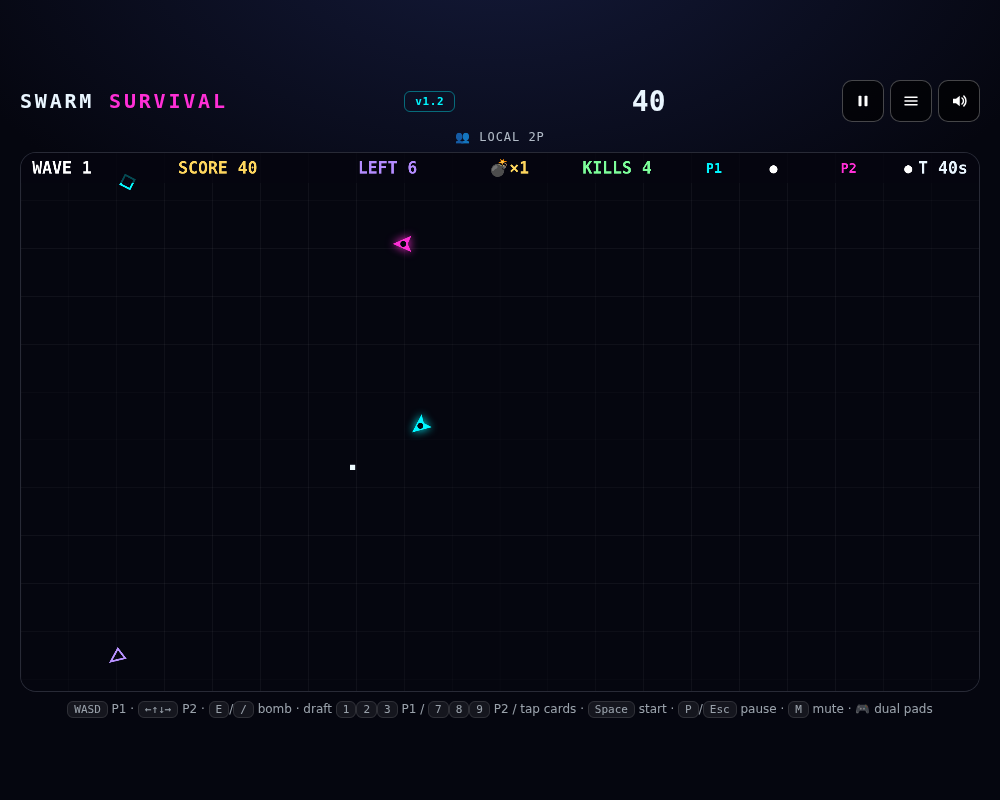
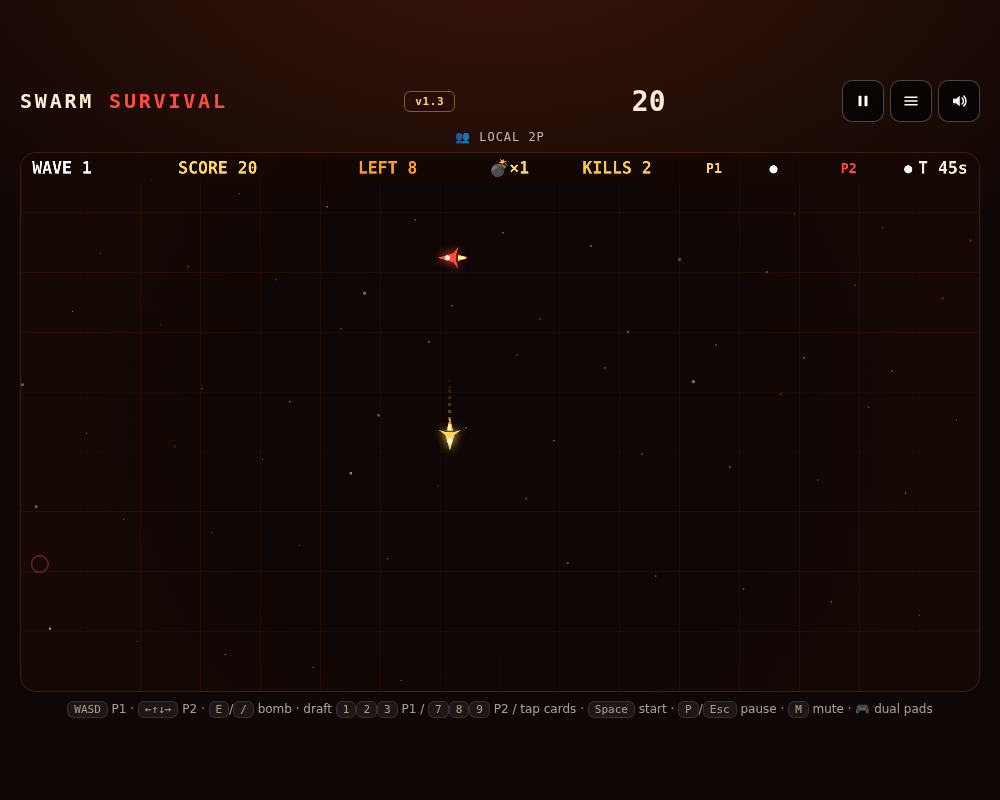
Swarm v1.3 solar-storm reskin: fighters, spark/asteroid/comet foes, tracers, ember arena

diff --git a/local-browser-games/hybrid1-2/swarm/index.html b/local-browser-games/hybrid1-2/swarm/index.html
@@ -3,7 +3,7 @@
 <head>
 <meta charset="utf-8">
 <meta name="viewport" content="width=device-width,initial-scale=1,maximum-scale=1,user-scalable=no,viewport-fit=cover">
-<meta name="theme-color" content="#05060f">
+<meta name="theme-color" content="#0f0705">
 <link rel="manifest" href="manifest.webmanifest">
 <link rel="icon" type="image/svg+xml" href="icon.svg">
 <meta name="mobile-web-app-capable" content="yes">
@@ -11,20 +11,20 @@
 <meta name="apple-mobile-web-app-status-bar-style" content="black-translucent">
 <title>Swarm Survival — Co-op Arena</title>
 <style>
-:root{--c1:#00f6ff;--c2:#ff2fd6;--bg:#05060f;--mono:ui-monospace,"Cascadia Mono","SF Mono",Menlo,Consolas,"Liberation Mono",monospace}
+:root{--c1:#ffd75e;--c2:#ff4d3d;--bg:#0f0705;--mono:ui-monospace,"Cascadia Mono","SF Mono",Menlo,Consolas,"Liberation Mono",monospace}
 *{box-sizing:border-box;-webkit-tap-highlight-color:transparent;user-select:none}
-body{margin:0;background:radial-gradient(1000px 600px at 50% -10%,#141a3a 0%,var(--bg) 60%) fixed,var(--bg);color:#eaf6ff;font-family:ui-sans-serif,system-ui,Segoe UI,Roboto,Arial;overflow:hidden}
+body{margin:0;background:radial-gradient(1200px 700px at 50% -10%,#3a1408 0%,var(--bg) 60%) fixed,var(--bg);color:#ffedd6;font-family:ui-sans-serif,system-ui,Segoe UI,Roboto,Arial;overflow:hidden}
 #wrap{height:100vh;height:100dvh;display:flex;flex-direction:column;align-items:center;justify-content:center;gap:8px;padding:10px}
 #top{width:min(1600px,96vw,calc((100dvh - 190px)*16/9));display:flex;justify-content:space-between;align-items:center}
 .logo{font-family:var(--mono);font-weight:900;letter-spacing:.14em;font-size:clamp(14px,2.6vw,20px)}
 .logo span{color:var(--c2)}
-#verBadge{font-family:var(--mono);font-size:11px;font-weight:800;letter-spacing:.06em;color:var(--c1);border:1px solid #00f6ff66;border-radius:6px;padding:3px 10px;white-space:nowrap}
+#verBadge{font-family:var(--mono);font-size:11px;font-weight:800;letter-spacing:.06em;color:var(--c1);border:1px solid #ffd75e66;border-radius:6px;padding:3px 10px;white-space:nowrap}
 #score{font-family:var(--mono);font-weight:900;font-variant-numeric:tabular-nums;font-size:clamp(18px,3.4vw,28px)}
 #mode{font-family:var(--mono);font-size:12px;letter-spacing:.08em;text-transform:uppercase;opacity:.75}
-#stage{position:relative;width:min(1600px,96vw,calc((100dvh - 190px)*16/9));aspect-ratio:16/9;border-radius:16px;overflow:hidden;border:1px solid #ffffff22;background:#070a18}
+#stage{position:relative;width:min(1600px,96vw,calc((100dvh - 190px)*16/9));aspect-ratio:16/9;border-radius:16px;overflow:hidden;border:1px solid #ff7a1a33;background:#140806}
 canvas{width:100%;height:100%;display:block;touch-action:none}
 #overlay{position:fixed;inset:0;z-index:50;display:flex;align-items:center;justify-content:center;background:rgba(5,6,15,.82);backdrop-filter:blur(6px);padding:14px}
-.card{width:min(560px,94%);background:#0b1026;border:1px solid #ffffff22;border-radius:16px;padding:20px;text-align:center;max-height:94%;overflow:auto}
+.card{width:min(560px,94%);background:#1c0d06;border:1px solid #ff7a1a44;border-radius:16px;padding:20px;text-align:center;max-height:94%;overflow:auto}
 #mbtns{display:flex;gap:6px;align-items:center}
 #pveil{position:fixed;inset:0;z-index:60;display:none;align-items:center;justify-content:center;background:rgba(5,6,15,.82);backdrop-filter:blur(6px);padding:14px}
 #pveil .card{width:min(340px,92%)}
@@ -35,7 +35,7 @@ canvas{width:100%;height:100%;display:block;touch-action:none}
 #stub{display:flex;align-items:center;gap:10px;margin:14px 0 2px;color:var(--c1);font-family:var(--mono);font-size:11px;letter-spacing:.2em}
 #stub::before,#stub::after{content:"";flex:1;border-top:2px dashed #ffffff33}
 button{cursor:pointer;border:0;border-radius:10px;padding:12px 14px;font-family:var(--mono);font-weight:800;font-size:13px;letter-spacing:.05em;text-transform:uppercase;color:#04121a;background:var(--c1);box-shadow:none;flex:1}
-button.pink{background:var(--c2);color:#1a0412}
+button.pink{background:var(--c2);color:#ffe9d6}
 button.ghost{background:#ffffff14;color:#fff;box-shadow:none;border:1px solid #ffffff2a;flex:1}
 button.sel{outline:2px solid #fff}
 #hint{font-size:12px;opacity:.65;text-align:center;line-height:1.6;max-width:96vw}
@@ -44,7 +44,7 @@ kbd{font-family:var(--mono);background:#ffffff1a;border:1px solid #ffffff2e;bord
 </head>
 <body>
 <div id="wrap">
-  <div id="top"><div class="logo">SWARM <span>SURVIVAL</span></div><div id="verBadge">v1.2</div><div id="score">0</div><div id="mbtns"><button id="pauseBtn" title="Pause"><svg viewBox="0 0 24 24" width="18" height="18" fill="currentColor" aria-hidden="true"><rect x="6" y="5" width="4" height="14" rx="1"/><rect x="14" y="5" width="4" height="14" rx="1"/></svg></button><button id="menuBtn" title="Menu"><svg viewBox="0 0 24 24" width="18" height="18" fill="none" stroke="currentColor" stroke-width="2" stroke-linecap="round" aria-hidden="true"><path d="M4 7h16M4 12h16M4 17h16"/></svg></button><button id="muteBtn" title="Mute"><svg viewBox="0 0 24 24" width="18" height="18" aria-hidden="true"><path d="M4 9v6h4l5 4V5L8 9H4z" fill="currentColor"/><path d="M16 8a5 5 0 010 8M18.5 5.5a9 9 0 010 13" stroke="currentColor" stroke-width="2" fill="none" stroke-linecap="round"/></svg></button></div></div>
+  <div id="top"><div class="logo">SWARM <span>SURVIVAL</span></div><div id="verBadge">v1.3</div><div id="score">0</div><div id="mbtns"><button id="pauseBtn" title="Pause"><svg viewBox="0 0 24 24" width="18" height="18" fill="currentColor" aria-hidden="true"><rect x="6" y="5" width="4" height="14" rx="1"/><rect x="14" y="5" width="4" height="14" rx="1"/></svg></button><button id="menuBtn" title="Menu"><svg viewBox="0 0 24 24" width="18" height="18" fill="none" stroke="currentColor" stroke-width="2" stroke-linecap="round" aria-hidden="true"><path d="M4 7h16M4 12h16M4 17h16"/></svg></button><button id="muteBtn" title="Mute"><svg viewBox="0 0 24 24" width="18" height="18" aria-hidden="true"><path d="M4 9v6h4l5 4V5L8 9H4z" fill="currentColor"/><path d="M16 8a5 5 0 010 8M18.5 5.5a9 9 0 010 13" stroke="currentColor" stroke-width="2" fill="none" stroke-linecap="round"/></svg></button></div></div>
   <div id="mode">menu</div>
   <div id="stage">
     <canvas id="cv" width="2560" height="1440"></canvas>
@@ -90,6 +90,9 @@ let wave=1,phase='combat',waveT=0,breatherT=0,spawnQueue=[],spawnT=0;
 let ships=[],enemies=[],pendings=[],bullets=[],pickups=[],parts=[],floaters=[];
 let bombs=1,score=0,kills=0,shakeAmp=0,bombFlash=0,bannerTxt='',bannerT=0;
 let draft=null,aiPickT=0;
+// pre-rendered vignette (storm edges darken)
+const VIG=document.createElement('canvas');VIG.width=W;VIG.height=H;
+{const g=VIG.getContext('2d');const rg=g.createRadialGradient(W/2,H/2,H*0.35,W/2,H/2,H*0.75);rg.addColorStop(0,'rgba(0,0,0,0)');rg.addColorStop(1,'rgba(10,2,0,0.6)');g.fillStyle=rg;g.fillRect(0,0,W,H);}
 let keys={},bombKeyP1=false,bombKeyP2=false;
 let touchT1=null,touchT2=null;
 const touchMap=new Map();const tapDown=new Map();
@@ -135,9 +138,9 @@ function start(){
   ships=[];enemies=[];pendings=[];bullets=[];pickups=[];parts=[];floaters=[];
   bombs=1;score=0;kills=0;shakeAmp=0;bombFlash=0;draft=null;over=false;
   wave=1;scoreEl.textContent='0';
-  if(mode==='1p')ships.push(mkShip('P1','#00f6ff',W/2-160,H/2,false));
-  else if(mode==='1pai'){ships.push(mkShip('P1','#00f6ff',W/2-220,H/2,false));ships.push(mkShip('AI','#7dff9a',W/2-60,H/2+120,true));}
-  else{ships.push(mkShip('P1','#00f6ff',W/2-220,H/2,false));ships.push(mkShip('P2','#ff2fd6',W/2+220,H/2,false));}
+  if(mode==='1p')ships.push(mkShip('P1','#ffd75e',W/2-160,H/2,false));
+  else if(mode==='1pai'){ships.push(mkShip('P1','#ffd75e',W/2-220,H/2,false));ships.push(mkShip('AI','#ff9f1c',W/2-60,H/2+120,true));}
+  else{ships.push(mkShip('P1','#ffd75e',W/2-220,H/2,false));ships.push(mkShip('P2','#ff4d3d',W/2+220,H/2,false));}
   running=true;paused=false;hideVeil();ov.style.display='none';
   modeEl.textContent=mode==='1p'?'🛸 solo':(mode==='1pai'?('🤖 solo + AI ('+diff+')'):'👥 local 2P');
   startWave(1);beep(700,.1);
@@ -263,14 +266,14 @@ function killEnemy(e,silent){
   const ix=enemies.indexOf(e);if(ix>=0)enemies.splice(ix,1);
   kills++;score+=e.score;scoreEl.textContent=String(score);
   floater(e.x,e.y,'+'+e.score,'#ffd75e');
-  burst(e.x,e.y,e.type==='splitter'?'#ffb02e':(e.type==='dasher'?'#ff5d5d':'#b48cff'),12);
+  burst(e.x,e.y,e.type==='splitter'?'#ffb02e':(e.type==='dasher'?'#ff5d5d':'#ffb02e'),12);
   beep(e.type==='splitter'?300:500,.06,'square',.06);
   if(e.type==='splitter'){
     for(let k=0;k<2;k++)enemies.push({type:'chaser',x:e.x+(Math.random()-0.5)*40,y:e.y+(Math.random()-0.5)*40,hp:1,maxhp:1,speed:130*e.mul,r:20,score:10,mul:e.mul});
   }
   // lifesteal: chance to gain shield on kill
   for(const s of ships){
-    if(s.alive&&s.lifesteal>0&&!s.shield&&Math.random()<0.15*s.lifesteal){s.shield=true;floater(s.x,s.y-60,'SHIELD','#7dff9a');}
+    if(s.alive&&s.lifesteal>0&&!s.shield&&Math.random()<0.15*s.lifesteal){s.shield=true;floater(s.x,s.y-60,'SHIELD','#ffe9a8');}
   }
   maybeDrop(e.x,e.y);
 }
@@ -303,7 +306,7 @@ function tryBomb(){
 }
 function downShip(s){
   if(!s.alive||s.iframes>0)return;
-  if(s.shield){s.shield=false;s.iframes=1.2;burst(s.x,s.y,'#7dff9a',16);beep(420,.15);floater(s.x,s.y-60,'SHIELD DOWN','#7dff9a');return;}
+  if(s.shield){s.shield=false;s.iframes=1.2;burst(s.x,s.y,'#ffe9a8',16);beep(420,.15);floater(s.x,s.y-60,'SHIELD DOWN','#ffe9a8');return;}
   s.alive=false;s.bleed=BLEED_OUT;s.channel=0;
   shakeAmp=Math.max(shakeAmp,18);burst(s.x,s.y,s.color,24);
   beep(200,.4,'sawtooth',.12);
@@ -528,6 +531,8 @@ function update(dt,t){
     else{const mx=s.x-s.px,my=s.y-s.py;if(mx*mx+my*my>4)want=Math.atan2(my,mx);}
     if(want!==null){let d=want-s.ang;while(d>Math.PI)d-=6.283;while(d<-Math.PI)d+=6.283;s.ang+=d*Math.min(1,16*dt);}
     s.px=s.x;s.py=s.y;
+    // engine trail (visual only, shares the capped parts pool)
+    if(Math.random()<dt*40)addPart({x:s.x-Math.cos(s.ang)*26,y:s.y-Math.sin(s.ang)*26,vx:-Math.cos(s.ang)*60,vy:-Math.sin(s.ang)*60,life:0.35,c:s.color});
   }
   // fx decay
   shakeAmp=Math.max(0,shakeAmp-90*dt);
@@ -566,23 +571,39 @@ function drawShip(s,t){
   }
   ctx.rotate(s.ang);
   ctx.shadowBlur=24;ctx.shadowColor=s.color;
+  // fighter: fuselage + swept wings + canopy
   ctx.fillStyle=s.color;
-  ctx.beginPath();ctx.moveTo(30,0);ctx.lineTo(-20,-22);ctx.lineTo(-10,0);ctx.lineTo(-20,22);ctx.closePath();ctx.fill();
+  ctx.beginPath();ctx.moveTo(34,0);ctx.lineTo(-8,-12);ctx.lineTo(-22,-30);ctx.lineTo(-16,-10);ctx.lineTo(-16,10);ctx.lineTo(-22,30);ctx.lineTo(-8,12);ctx.closePath();ctx.fill();
   ctx.shadowBlur=0;
-  ctx.fillStyle='#05060f';ctx.beginPath();ctx.arc(2,0,8,0,7);ctx.fill();
-  if(s.shield){ctx.globalCompositeOperation='lighter';ctx.strokeStyle='#7dff9a';ctx.lineWidth=5;ctx.beginPath();ctx.arc(0,0,38,0,7);ctx.stroke();}
-  if(s.muzzle>0){ctx.globalCompositeOperation='lighter';ctx.fillStyle='#ffffff';ctx.beginPath();ctx.arc(36,0,12,0,7);ctx.fill();}
-  if(s.iframes>0&&((t/100)|0)%2===0){ctx.globalAlpha=0.35;ctx.strokeStyle='#fff';ctx.lineWidth=3;ctx.beginPath();ctx.arc(0,0,46,0,7);ctx.stroke();ctx.globalAlpha=1;}
+  ctx.fillStyle='#fff8e6';ctx.beginPath();ctx.arc(8,0,7,0,7);ctx.fill();
+  // engine flame (flicker)
+  ctx.globalCompositeOperation='lighter';
+  const fl=26+10*Math.sin(t/28+s.x);
+  ctx.fillStyle='#ff7a1a';ctx.beginPath();ctx.moveTo(-20,-9);ctx.lineTo(-20-fl,0);ctx.lineTo(-20,9);ctx.closePath();ctx.fill();
+  ctx.fillStyle='#ffd75e';ctx.beginPath();ctx.moveTo(-20,-5);ctx.lineTo(-20-fl*0.55,0);ctx.lineTo(-20,5);ctx.closePath();ctx.fill();
+  if(s.shield){ctx.strokeStyle='#ffe9a8';ctx.lineWidth=5;ctx.beginPath();ctx.arc(0,0,42,0,7);ctx.stroke();}
+  if(s.muzzle>0){ctx.fillStyle='#ffffff';ctx.beginPath();ctx.arc(40,0,13,0,7);ctx.fill();}
+  if(s.iframes>0&&((t/100)|0)%2===0){ctx.globalAlpha=0.35;ctx.strokeStyle='#fff';ctx.lineWidth=3;ctx.beginPath();ctx.arc(0,0,50,0,7);ctx.stroke();ctx.globalAlpha=1;}
   ctx.restore();
 }
 function draw(t){
   ctx.save();
   if(shakeAmp>0)ctx.translate((Math.random()-0.5)*shakeAmp,(Math.random()-0.5)*shakeAmp);
-  ctx.fillStyle='#05060f';ctx.fillRect(-40,-40,W+80,H+80);
-  ctx.strokeStyle='#ffffff0c';ctx.lineWidth=2;
-  for(let x=0;x<W;x+=128){ctx.beginPath();ctx.moveTo(x,0);ctx.lineTo(x,H);ctx.stroke();}
-  for(let y=0;y<H;y+=128){ctx.beginPath();ctx.moveTo(0,y);ctx.lineTo(W,y);ctx.stroke();}
+  ctx.fillStyle='#0f0705';ctx.fillRect(-40,-40,W+80,H+80);
+  // faint ember grid
+  ctx.strokeStyle='#ff7a1a10';ctx.lineWidth=2;
+  for(let x=0;x<W;x+=160){ctx.beginPath();ctx.moveTo(x,0);ctx.lineTo(x,H);ctx.stroke();}
+  for(let y=0;y<H;y+=160){ctx.beginPath();ctx.moveTo(0,y);ctx.lineTo(W,y);ctx.stroke();}
   ctx.globalCompositeOperation='lighter';
+  // drifting ember motes (visual only, deterministic)
+  for(let i=0;i<70;i++){
+    const mx=(i*977)%W, spd=20+(i%5)*14, my=H-((t*spd*0.06+i*631)%(H+120))+60;
+    const tw=0.25+0.35*Math.abs(Math.sin(t*0.001+i));
+    ctx.globalAlpha=tw;ctx.fillStyle=i%7===0?'#ffd75e':'#ff7a1a';
+    const sz=i%7===0?7:4;ctx.fillRect(mx,my,sz,sz);
+  }
+  ctx.globalAlpha=1;
+  ctx.drawImage(VIG,0,0,W,H);
   // pending spawn warnings (0.8s blink)
   for(const p of pendings){
     const bl=((t/90)|0)%2===0;
@@ -590,35 +611,58 @@ function draw(t){
     ctx.beginPath();ctx.arc(p.x,p.y,p.type==='splitter'?30:22,0,7);ctx.stroke();
   }
   ctx.globalAlpha=1;
-  // pickups (bob)
+  // pickups: glowing cores with letter sigils
   for(const p of pickups){
     const bob=Math.sin(p.t*5)*8;
-    ctx.fillStyle=p.kind==='bomb'?'#ffd75e':(p.kind==='shield'?'#7dff9a':(p.kind==='spread'?'#00f6ff':'#ff9f1c'));
-    ctx.save();ctx.translate(p.x,p.y+bob);ctx.rotate(p.t);
-    ctx.strokeStyle=ctx.fillStyle;ctx.lineWidth=5;
-    ctx.strokeRect(-14,-14,28,28);
-    ctx.fillStyle='#05060f';ctx.font='900 24px ui-monospace,monospace';ctx.textAlign='center';ctx.textBaseline='middle';
+    const col=p.kind==='bomb'?'#ffd75e':(p.kind==='shield'?'#ffe9a8':(p.kind==='spread'?'#ff7a1a':(p.kind==='rapid'?'#ff4d3d':(p.kind==='speed'?'#ffc93d':'#ff9f1c'))));
+    ctx.save();ctx.translate(p.x,p.y+bob);
+    ctx.fillStyle=col;ctx.globalAlpha=0.9;ctx.beginPath();ctx.arc(0,0,17,0,7);ctx.fill();
+    ctx.globalAlpha=1;ctx.strokeStyle=col;ctx.lineWidth=4;ctx.beginPath();ctx.arc(0,0,24+3*Math.sin(p.t*6),0,7);ctx.stroke();
+    ctx.fillStyle='#140806';ctx.font='900 24px ui-monospace,monospace';ctx.textAlign='center';ctx.textBaseline='middle';
     ctx.fillText(p.kind==='bomb'?'B':p.kind[0].toUpperCase(),0,2);
     ctx.restore();
   }
-  // enemies
+  // enemies: ember spark / asteroid / comet
   for(const e of enemies){
-    ctx.strokeStyle=e.type==='chaser'?'#b48cff':(e.type==='splitter'?'#ffb02e':'#ff5d5d');
+    ctx.strokeStyle=e.type==='chaser'?'#ffd75e':(e.type==='splitter'?'#ff9f1c':'#ff4d3d');
     ctx.lineWidth=e.type==='splitter'?7:5;
     ctx.save();ctx.translate(e.x,e.y);
-    if(e.type==='chaser'){ctx.rotate(Math.atan2(e.y-(ships[0]?ships[0].y:H/2),e.x-(ships[0]?ships[0].x:W/2)));ctx.beginPath();ctx.moveTo(22,0);ctx.lineTo(-14,-16);ctx.lineTo(-14,16);ctx.closePath();ctx.stroke();}
-    else if(e.type==='splitter'){ctx.rotate(t/600);ctx.strokeRect(-22,-22,44,44);ctx.rotate(0.785);ctx.strokeRect(-22,-22,44,44);}
+    if(e.type==='chaser'){
+      // spark: flickering 4-point star, nose toward prey
+      const prey=nearestAliveShip(e.x,e.y);
+      ctx.rotate(prey?Math.atan2(prey.y-e.y,prey.x-e.x):0);
+      const fl=0.75+0.25*Math.sin(t/70+e.x);
+      ctx.globalAlpha=fl;
+      ctx.beginPath();ctx.moveTo(26,0);ctx.lineTo(6,-8);ctx.lineTo(-20,0);ctx.lineTo(6,8);ctx.closePath();ctx.stroke();
+      ctx.beginPath();ctx.moveTo(6,0);ctx.lineTo(-6,-22);ctx.moveTo(6,0);ctx.lineTo(-6,22);ctx.stroke();
+      ctx.globalAlpha=1;
+    }
+    else if(e.type==='splitter'){
+      // asteroid: irregular tumbling rock with craters
+      ctx.rotate(e.seed||(e.seed=t*0.001+e.x));
+      ctx.beginPath();
+      const R=30;
+      for(let k=0;k<7;k++){const a=k/7*6.283,rr=R*(k%2?0.78:1);const px=Math.cos(a)*rr,py=Math.sin(a)*rr;k?ctx.lineTo(px,py):ctx.moveTo(px,py);}
+      ctx.closePath();ctx.stroke();
+      ctx.fillStyle='#ff9f1c';ctx.beginPath();ctx.arc(-8,-4,5,0,7);ctx.fill();ctx.beginPath();ctx.arc(10,8,7,0,7);ctx.fill();
+    }
     else{
-      if(e.st==='tele'){ctx.globalAlpha=0.4+0.6*Math.abs(Math.sin(t/60));ctx.lineWidth=8;}
-      ctx.beginPath();ctx.arc(0,0,20,0,7);ctx.stroke();ctx.globalAlpha=1;
-      if(e.st==='dash'){ctx.beginPath();ctx.moveTo(0,0);ctx.lineTo(-e.dvx*60,-e.dvy*60);ctx.stroke();}
+      if(e.st==='tele'){ctx.globalAlpha=0.4+0.6*Math.abs(Math.sin(t/60));ctx.lineWidth=9;}
+      // comet: bright head + tail opposite travel
+      const tx=(e.dvx||0),ty=(e.dvy||0),tl=e.st==='dash'?90:40;
+      const l=Math.hypot(tx,ty)||1;
+      ctx.beginPath();ctx.moveTo(0,0);ctx.lineTo(-tx/l*tl,-ty/l*tl);ctx.stroke();
+      ctx.fillStyle='#ff4d3d';ctx.beginPath();ctx.arc(0,0,16,0,7);ctx.fill();
+      ctx.fillStyle='#ffe9a8';ctx.beginPath();ctx.arc(0,0,8,0,7);ctx.fill();
+      ctx.globalAlpha=1;
     }
     ctx.restore();
-    if(e.maxhp>1){ctx.fillStyle='#ff5d5d';ctx.fillRect(e.x-24,e.y-e.r-18,48*Math.max(0,e.hp/e.maxhp),7);}
+    if(e.maxhp>1){ctx.fillStyle='#ff4d3d';ctx.fillRect(e.x-24,e.y-e.r-18,48*Math.max(0,e.hp/e.maxhp),7);}
   }
-  // bullets
-  ctx.fillStyle='#eaf6ff';
-  for(const b of bullets){ctx.fillRect(b.x-7,b.y-7,14,14);}
+  // bullets: gold tracer streaks
+  ctx.strokeStyle='#ffe9a8';ctx.lineWidth=7;ctx.lineCap='round';
+  for(const b of bullets){ctx.beginPath();ctx.moveTo(b.x-b.vx*0.022,b.y-b.vy*0.022);ctx.lineTo(b.x,b.y);ctx.stroke();}
+  ctx.lineCap='butt';
   // ships (only ones allowed shadowBlur)
   ctx.globalCompositeOperation='source-over';
   const now=t;
@@ -628,22 +672,22 @@ function draw(t){
   ctx.globalAlpha=1;
   ctx.globalCompositeOperation='source-over';
   // HUD
-  ctx.fillStyle='rgba(5,6,15,.72)';ctx.fillRect(0,0,W,80);
+  ctx.fillStyle='rgba(20,8,4,.78)';ctx.fillRect(0,0,W,80);
   ctx.textBaseline='middle';ctx.textAlign='left';
   ctx.fillStyle='#fff';ctx.font='900 44px ui-monospace,monospace';
   ctx.fillText('WAVE '+wave,30,44);
   ctx.fillStyle='#ffd75e';ctx.fillText('SCORE '+score,420,44);
-  ctx.fillStyle='#b48cff';ctx.fillText('LEFT '+enemiesLeft(),900,44);
+  ctx.fillStyle='#ff9f1c';ctx.fillText('LEFT '+enemiesLeft(),900,44);
   ctx.fillStyle='#ffd75e';ctx.fillText('💣×'+bombs,1250,44);
-  ctx.fillStyle='#7dff9a';ctx.fillText('KILLS '+kills,1500,44);
-  ctx.textAlign='right';ctx.fillStyle='#eaf6ff';
+  ctx.fillStyle='#ffc93d';ctx.fillText('KILLS '+kills,1500,44);
+  ctx.textAlign='right';ctx.fillStyle='#ffedd6';
   ctx.fillText(phase==='breather'?('BREATHER '+Math.max(0,BREATHER_LEN-breatherT).toFixed(1)+'s'):('T '+Math.max(0,WAVE_LEN-waveT).toFixed(0)+'s'),W-30,44);
   // per-ship status
   ctx.textAlign='left';ctx.font='900 36px ui-monospace,monospace';
   ships.forEach((s,i)=>{
     const x=1830+i*360;
     ctx.fillStyle=s.color;ctx.fillText(s.id+(s.ai?'(AI)':''),x,44);
-    ctx.fillStyle=s.alive?(s.shield?'#7dff9a':'#ffffff'):'#ff5d5d';
+    ctx.fillStyle=s.alive?(s.shield?'#ffe9a8':'#ffffff'):'#ff4d3d';
     ctx.fillText(s.alive?(s.shield?'◈':'●'):'✕',x+170,44);
     if(!s.alive&&!s.dead){ctx.fillStyle='#ff5d5d';ctx.fillText(s.bleed.toFixed(0)+'s',x+230,44);}
   });
@@ -670,20 +714,20 @@ function draftTap(gx,gy){ // tap/click a draft card: P1 row locks P1 pick, P2 ro
   return false;
 }
 function drawDraft(){
-  ctx.fillStyle='rgba(5,6,15,.78)';ctx.fillRect(0,180,W,H-360);
+  ctx.fillStyle='rgba(20,8,4,.84)';ctx.fillRect(0,180,W,H-360);
   ctx.textAlign='center';ctx.fillStyle='#ffd75e';ctx.font='900 64px ui-monospace,monospace';
   ctx.fillText('⬆ DRAFT — lock your upgrade ⬆',W/2,280);
   const rows=[];
   rows.push({cards:draft.c1,keys:DRAFT_KEY1,who:ships[0]?ships[0].id+' — keys 1/2/3':'',y:560,picks:draft.picks1,need:draft.need1});
   if(draft.c2)rows.push({cards:draft.c2,keys:DRAFT_KEY2,who:(ships[1].ai?'AI':'P2')+' — keys 7/8/9'+(ships[1].ai?' (auto)':''),y:1020,picks:draft.lock2>=0?[draft.lock2]:[],need:1});
   for(const r of rows){
-    ctx.fillStyle='#eaf6ff';ctx.font='900 44px ui-monospace,monospace';
+    ctx.fillStyle='#ffedd6';ctx.font='900 44px ui-monospace,monospace';
     ctx.fillText(r.who,W/2,r.y-190);
     r.cards.forEach((c,i)=>{
       const x=W/2+(i-1)*480,y=r.y;
       const picked=r.picks.includes(i);
-      ctx.fillStyle=picked?'#1d3a24':'#0b1026';
-      ctx.strokeStyle=picked?'#7dff9a':'#ffffff44';ctx.lineWidth=picked?8:4;
+      ctx.fillStyle=picked?'#3a2408':'#160a05';
+      ctx.strokeStyle=picked?'#ffd75e':'#ff7a1a55';ctx.lineWidth=picked?8:4;
       ctx.beginPath();ctx.rect(x-200,y-130,400,260);ctx.fill();ctx.stroke();
       ctx.fillStyle='#ffd75e';ctx.font='900 46px ui-monospace,monospace';
       ctx.fillText('['+r.keys[i]+']',x,y-80);
@@ -691,7 +735,7 @@ function drawDraft(){
       ctx.fillText(c.name,x,y-10);
       ctx.fillStyle='#9fb3c8';ctx.font='32px ui-monospace,monospace';
       ctx.fillText(c.desc,x,y+55);
-      if(picked){ctx.fillStyle='#7dff9a';ctx.font='900 40px ui-monospace,monospace';ctx.fillText('✔ LOCKED',x,y+105);}
+      if(picked){ctx.fillStyle='#ffe9a8';ctx.font='900 40px ui-monospace,monospace';ctx.fillText('✔ LOCKED',x,y+105);}
     });
   }
   ctx.fillStyle='#9fb3c8';ctx.font='36px ui-monospace,monospace';
